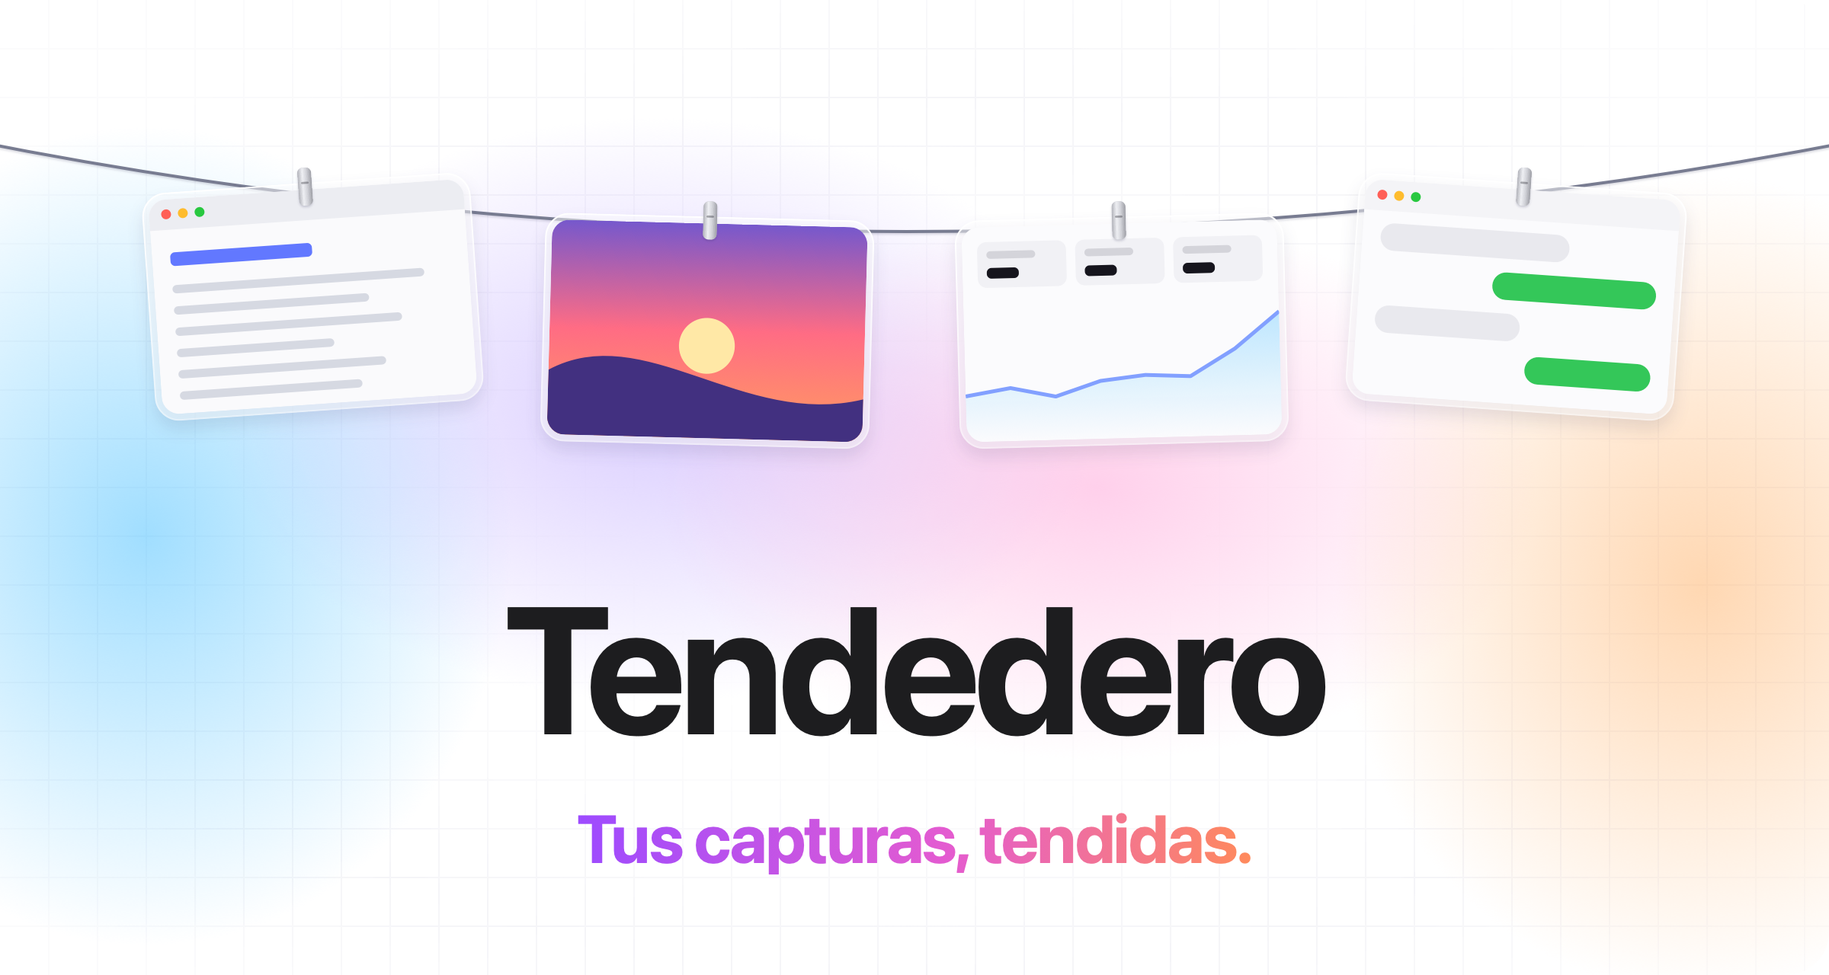
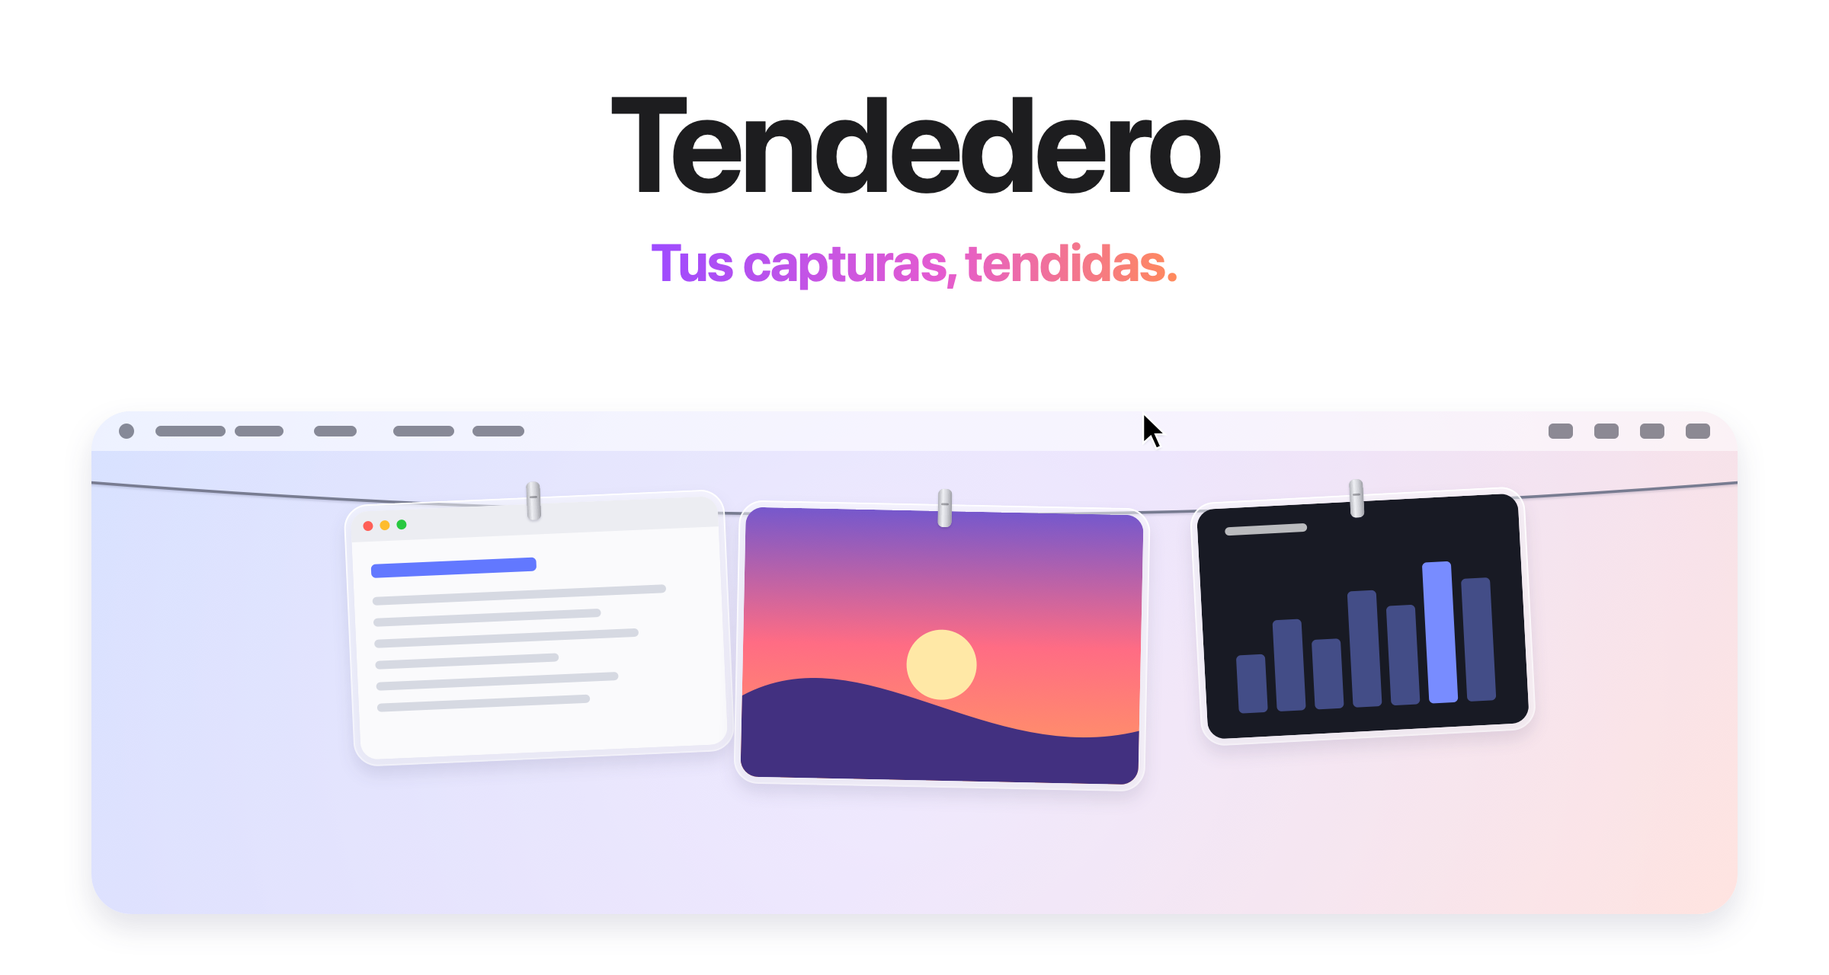
README heroes: the earlier scene again, with the website's words: a bold name and the tagline in the title's gradient

diff --git a/scripts/make-readme-art.swift b/scripts/make-readme-art.swift
@@ -168,6 +168,7 @@ struct Theme {
     let shadow: NSColor
     let tile: NSColor
     let tileInk: NSColor
+    let tagline: [NSColor]     // the website's title gradient
 }
 
 let light = Theme(
@@ -179,7 +180,8 @@ let light = Theme(
     line: color(120, 124, 145), glassFill: color(255, 255, 255, 0.5),
     edgeTop: color(255, 255, 255, 0.95), edgeBottom: color(255, 255, 255, 0.35),
     shadow: color(40, 40, 80, 0.22),
-    tile: color(245, 245, 247), tileInk: color(29, 29, 31))
+    tile: color(245, 245, 247), tileInk: color(29, 29, 31),
+    tagline: [color(157, 75, 255), color(228, 91, 208), color(255, 138, 91)])
 
 let dark = Theme(
     name: "dark",
@@ -190,7 +192,8 @@ let dark = Theme(
     line: color(150, 154, 175), glassFill: color(255, 255, 255, 0.12),
     edgeTop: color(255, 255, 255, 0.45), edgeBottom: color(255, 255, 255, 0.08),
     shadow: color(0, 0, 0, 0.5),
-    tile: color(28, 28, 30), tileInk: color(245, 245, 247))
+    tile: color(28, 28, 30), tileInk: color(245, 245, 247),
+    tagline: [color(181, 123, 255), color(240, 112, 216), color(255, 160, 112)])
 
 // MARK: Canvas
 
@@ -237,6 +240,26 @@ func leftText(_ string: String, size: CGFloat, weight: NSFont.Weight, color: NSC
     let s = NSAttributedString(string: string, attributes: [.font: font, .foregroundColor: color, .kern: tracking])
     if s.size().width > maxWidth { fatalError("\"\(string)\" is too long: \(Int(s.size().width)) of \(Int(maxWidth)) points") }
     s.draw(at: NSPoint(x: x, y: baselineY + font.descender))
+}
+
+/// Text filled with a horizontal gradient, through a mask of the glyphs.
+func gradientText(_ string: String, size: CGFloat, weight: NSFont.Weight, colors: [NSColor], tracking: CGFloat,
+                  centerX: CGFloat, baselineY: CGFloat, canvas: NSSize, scale: CGFloat, ctx: CGContext) {
+    let font = NSFont.systemFont(ofSize: size, weight: weight)
+    let s = NSAttributedString(string: string, attributes: [.font: font, .foregroundColor: NSColor.white, .kern: tracking])
+    let w = s.size().width
+    let mask = CGContext(data: nil, width: Int(canvas.width * scale), height: Int(canvas.height * scale), bitsPerComponent: 8,
+                         bytesPerRow: 0, space: CGColorSpaceCreateDeviceGray(), bitmapInfo: CGImageAlphaInfo.none.rawValue)!
+    mask.scaleBy(x: scale, y: scale)
+    NSGraphicsContext.saveGraphicsState()
+    NSGraphicsContext.current = NSGraphicsContext(cgContext: mask, flipped: false)
+    s.draw(at: NSPoint(x: centerX - w / 2, y: baselineY + font.descender))
+    NSGraphicsContext.restoreGraphicsState()
+    ctx.saveGState()
+    ctx.clip(to: NSRect(origin: .zero, size: canvas), mask: mask.makeImage()!)
+    NSGradient(colors: colors, atLocations: [0, 0.55, 1], colorSpace: .sRGB)!
+        .draw(in: NSRect(x: centerX - w / 2, y: baselineY - size * 0.4, width: w, height: size * 1.4), angle: 0)
+    ctx.restoreGState()
 }
 
 func textWidth(_ string: String, size: CGFloat, weight: NSFont.Weight) -> CGFloat {
@@ -356,16 +379,16 @@ func drawGlassPhoto(_ ctx: CGContext, _ t: Theme, w: CGFloat, h: CGFloat, kind: 
 func drawContent(_ kind: Int, _ r: NSRect) {
     switch kind {
     case 0:
-        (darkWindows ? color(38, 37, 44) : color(250, 250, 252)).setFill(); r.fill()
+        color(250, 250, 252).setFill(); r.fill()
         let bar = NSRect(x: r.minX, y: r.maxY - 20, width: r.width, height: 20)
-        (darkWindows ? color(45, 44, 52) : color(236, 237, 242)).setFill(); bar.fill()
+        color(236, 237, 242).setFill(); bar.fill()
         for (i, c) in [color(255, 95, 87), color(254, 188, 46), color(40, 200, 64)].enumerated() {
             c.setFill()
             NSBezierPath(ovalIn: NSRect(x: r.minX + 8 + CGFloat(i) * 11, y: bar.midY - 3, width: 6.5, height: 6.5)).fill()
         }
         color(98, 120, 255).setFill()
         NSBezierPath(roundedRect: NSRect(x: r.minX + 12, y: bar.minY - 24, width: r.width * 0.45, height: 9), xRadius: 3, yRadius: 3).fill()
-        (darkWindows ? color(255, 255, 255, 0.14) : color(214, 217, 226)).setFill()
+        color(214, 217, 226).setFill()
         for i in 0..<6 {
             let y = bar.minY - 42 - CGFloat(i) * 14
             if y < r.minY + 8 { break }
@@ -384,45 +407,6 @@ func drawContent(_ kind: Int, _ r: NSRect) {
                     controlPoint2: NSPoint(x: r.minX + r.width * 0.62, y: r.minY + r.height * 0.05))
         hills.line(to: NSPoint(x: r.maxX, y: r.minY)); hills.line(to: NSPoint(x: r.minX, y: r.minY)); hills.close()
         color(66, 48, 128).setFill(); hills.fill()
-    case 3:
-        // A week of screenshots: three figures and a line that climbs.
-        (darkWindows ? color(38, 37, 44) : color(251, 251, 253)).setFill(); r.fill()
-        let tw = (r.width - 32) / 3
-        for i in 0..<3 {
-            let tile = NSRect(x: r.minX + 10 + CGFloat(i) * (tw + 6), y: r.maxY - 40, width: tw, height: 30)
-            (darkWindows ? color(48, 47, 56) : color(241, 241, 245)).setFill()
-            NSBezierPath(roundedRect: tile, xRadius: 6, yRadius: 6).fill()
-            (darkWindows ? color(255, 255, 255, 0.25) : color(212, 212, 218)).setFill()
-            NSBezierPath(roundedRect: NSRect(x: tile.minX + 6, y: tile.maxY - 11, width: tw * 0.55, height: 5), xRadius: 2.5, yRadius: 2.5).fill()
-            (darkWindows ? color(245, 245, 247) : color(22, 21, 29)).setFill()
-            NSBezierPath(roundedRect: NSRect(x: tile.minX + 6, y: tile.minY + 6, width: tw * 0.36, height: 7), xRadius: 3, yRadius: 3).fill()
-        }
-        let pts: [CGFloat] = [0.28, 0.34, 0.26, 0.38, 0.42, 0.4, 0.62, 0.92]
-        let curve = NSBezierPath()
-        for (i, v) in pts.enumerated() {
-            let p = NSPoint(x: r.minX + r.width * CGFloat(i) / CGFloat(pts.count - 1), y: r.minY + 8 + (r.height - 62) * v)
-            i == 0 ? curve.move(to: p) : curve.line(to: p)
-        }
-        let area = curve.copy() as! NSBezierPath
-        area.line(to: NSPoint(x: r.maxX, y: r.minY)); area.line(to: NSPoint(x: r.minX, y: r.minY)); area.close()
-        NSGradient(colors: [color(92, 198, 255, 0.38), color(169, 139, 255, 0)])!.draw(in: area, angle: -90)
-        curve.lineWidth = 2.5; curve.lineJoinStyle = .round
-        color(130, 160, 255).setStroke(); curve.stroke()
-    case 4:
-        // A chat: bubbles in and out.
-        (darkWindows ? color(38, 37, 44) : color(251, 251, 253)).setFill(); r.fill()
-        let bar = NSRect(x: r.minX, y: r.maxY - 20, width: r.width, height: 20)
-        (darkWindows ? color(45, 44, 52) : color(244, 244, 247)).setFill(); bar.fill()
-        for (i, c) in [color(255, 95, 87), color(254, 188, 46), color(40, 200, 64)].enumerated() {
-            c.setFill()
-            NSBezierPath(ovalIn: NSRect(x: r.minX + 8 + CGFloat(i) * 11, y: bar.midY - 3, width: 6.5, height: 6.5)).fill()
-        }
-        for (i, (w, out)) in [(0.6, false), (0.52, true), (0.46, false), (0.4, true)].enumerated() {
-            let bw = r.width * w, y = bar.minY - 26 - CGFloat(i) * 27
-            let b = NSRect(x: out ? r.maxX - 12 - bw : r.minX + 12, y: y, width: bw, height: 18)
-            (out ? color(52, 199, 89) : (darkWindows ? color(58, 57, 66) : color(233, 233, 238))).setFill()
-            NSBezierPath(roundedRect: b, xRadius: 9, yRadius: 9).fill()
-        }
     default:
         color(24, 26, 36).setFill(); r.fill()
         let bars: [CGFloat] = [0.35, 0.55, 0.42, 0.7, 0.6, 0.85, 0.74]
@@ -470,110 +454,27 @@ func drawCursor(_ ctx: CGContext, _ t: Theme, at p: NSPoint) {
 
 // MARK: Hero
 
-// The hero wears the website's colours: a desk lit by soft glows over a faint
-// grid, four photos on a line, and the tagline in the title's gradient.
-struct Glow { let x: CGFloat; let y: CGFloat; let rx: CGFloat; let ry: CGFloat; let color: NSColor; let alpha: CGFloat }
-struct Look { let wall: NSColor; let grid: NSColor; let glows: [Glow]; let title: [NSColor] }
-
-let looks: [String: Look] = [
-    "light": Look(wall: color(255, 255, 255), grid: color(90, 90, 140, 0.06), glows: [
-        Glow(x: 0.08, y: 0.55, rx: 0.2, ry: 0.42, color: color(92, 198, 255), alpha: 0.58),
-        Glow(x: 0.36, y: 0.42, rx: 0.24, ry: 0.3, color: color(169, 139, 255), alpha: 0.42),
-        Glow(x: 0.6, y: 0.5, rx: 0.24, ry: 0.28, color: color(255, 143, 208), alpha: 0.42),
-        Glow(x: 0.93, y: 0.6, rx: 0.2, ry: 0.42, color: color(255, 179, 107), alpha: 0.52),
-    ], title: [color(157, 75, 255), color(228, 91, 208), color(255, 138, 91)]),
-    "dark": Look(wall: color(11, 11, 16), grid: color(255, 255, 255, 0.035), glows: [
-        Glow(x: 0.08, y: 0.55, rx: 0.2, ry: 0.42, color: color(47, 143, 216), alpha: 0.4),
-        Glow(x: 0.36, y: 0.42, rx: 0.24, ry: 0.3, color: color(122, 82, 224), alpha: 0.34),
-        Glow(x: 0.6, y: 0.5, rx: 0.24, ry: 0.28, color: color(209, 79, 159), alpha: 0.3),
-        Glow(x: 0.93, y: 0.6, rx: 0.2, ry: 0.42, color: color(217, 128, 58), alpha: 0.32),
-    ], title: [color(181, 123, 255), color(240, 112, 216), color(255, 160, 112)]),
-]
-
-/// Windows in the hero follow the theme; the demo keeps its light ones.
-var darkWindows = false
-
-/// Text filled with a horizontal gradient, through a mask of the glyphs.
-func gradientText(_ string: String, size: CGFloat, weight: NSFont.Weight, colors: [NSColor], tracking: CGFloat,
-                  centerX: CGFloat, baselineY: CGFloat, canvas: NSSize, scale: CGFloat, ctx: CGContext) {
-    let font = NSFont.systemFont(ofSize: size, weight: weight)
-    let s = NSAttributedString(string: string, attributes: [.font: font, .foregroundColor: NSColor.white, .kern: tracking])
-    let w = s.size().width
-    let mask = CGContext(data: nil, width: Int(canvas.width * scale), height: Int(canvas.height * scale), bitsPerComponent: 8,
-                         bytesPerRow: 0, space: CGColorSpaceCreateDeviceGray(), bitmapInfo: CGImageAlphaInfo.none.rawValue)!
-    mask.scaleBy(x: scale, y: scale)
-    NSGraphicsContext.saveGraphicsState()
-    NSGraphicsContext.current = NSGraphicsContext(cgContext: mask, flipped: false)
-    s.draw(at: NSPoint(x: centerX - w / 2, y: baselineY + font.descender))
-    NSGraphicsContext.restoreGraphicsState()
-    ctx.saveGState()
-    ctx.clip(to: NSRect(origin: .zero, size: canvas), mask: mask.makeImage()!)
-    NSGradient(colors: colors, atLocations: [0, 0.55, 1], colorSpace: .sRGB)!
-        .draw(in: NSRect(x: centerX - w / 2, y: baselineY - size * 0.4, width: w, height: size * 1.4), angle: 0)
-    ctx.restoreGState()
-}
-
 func hero(_ t: Theme) {
     let W: CGFloat = 1200, H: CGFloat = 640, s: CGFloat = 2
-    let look = looks[t.name]!
     let rep = makeBitmap(W, H, scale: s)
     draw(rep, scale: s) { ctx in
-        let canvas = NSRect(x: 0, y: 0, width: W, height: H)
-        t.page.setFill(); canvas.fill()
-        NSBezierPath(roundedRect: canvas, xRadius: 28, yRadius: 28).addClip()
-        look.wall.setFill(); canvas.fill()
-
-        // The grid fades out behind the words, as on the website.
-        ctx.beginTransparencyLayer(auxiliaryInfo: nil)
-        look.grid.setStroke()
-        let cell: CGFloat = 32
-        let grid = NSBezierPath(); grid.lineWidth = 1
-        for x in stride(from: cell, to: W, by: cell) { grid.move(to: NSPoint(x: x, y: 0)); grid.line(to: NSPoint(x: x, y: H)) }
-        for y in stride(from: H - cell, to: 0, by: -cell) { grid.move(to: NSPoint(x: 0, y: y)); grid.line(to: NSPoint(x: W, y: y)) }
-        grid.stroke()
-        ctx.setBlendMode(.destinationOut)
-        ctx.saveGState()
-        ctx.translateBy(x: W / 2, y: H * 0.45); ctx.scaleBy(x: W * 0.6, y: H * 0.6)
-        NSGradient(colors: [.black, .black, .clear, color(0, 0, 0, 0.6)], atLocations: [0, 0.25, 0.75, 1], colorSpace: .sRGB)!
-            .draw(fromCenter: .zero, radius: 0, toCenter: .zero, radius: 1, options: [.drawsAfterEndingLocation])
-        ctx.restoreGState()
-        ctx.endTransparencyLayer()
-
-        for g in look.glows {
-            ctx.saveGState()
-            ctx.translateBy(x: W * g.x, y: H * (1 - g.y)); ctx.scaleBy(x: max(W * g.rx, 220), y: H * g.ry)
-            NSGradient(colors: [g.color.withAlphaComponent(g.alpha), g.color.withAlphaComponent(g.alpha * 0.45), g.color.withAlphaComponent(0)],
-                       atLocations: [0, 0.55, 1], colorSpace: .sRGB)!
-                .draw(fromCenter: .zero, radius: 0, toCenter: .zero, radius: 1, options: [])
-            ctx.restoreGState()
-        }
-
-        let top = H - 92, sag: CGFloat = 60
-        func lineY(_ x: CGFloat) -> CGFloat { let f = (x + 20) / (W + 40); return top - 4 * sag * f * (1 - f) }
-        let line = NSBezierPath()
-        line.move(to: NSPoint(x: -20, y: top))
-        line.curve(to: NSPoint(x: W + 20, y: top), controlPoint1: NSPoint(x: (W / 2 - 20) * 2 / 3 - 20 / 3, y: top - 2 * sag * 2 / 3),
-                   controlPoint2: NSPoint(x: W + 20 - (W / 2 + 20) * 2 / 3, y: top - 2 * sag * 2 / 3))
-        ctx.saveGState(); shadow(t, 0.8, blur: 3, y: -2)
-        line.lineWidth = 2; t.line.setStroke(); line.stroke()
-        ctx.restoreGState()
-
-        darkWindows = t.name == "dark"
-        for f in [Frame(x: 200, w: 216, h: 150, tilt: 4, kind: 0), Frame(x: 466, w: 216, h: 150, tilt: -1.5, kind: 1),
-                  Frame(x: 734, w: 216, h: 150, tilt: 1.5, kind: 3), Frame(x: 1000, w: 216, h: 150, tilt: -4, kind: 4)] {
-            ctx.saveGState()
-            ctx.translateBy(x: f.x, y: lineY(f.x) + 7)
-            ctx.rotate(by: f.tilt * .pi / 180)
-            drawGlassPhoto(ctx, t, w: f.w, h: f.h, kind: f.kind, lift: false)
-            ctx.restoreGState()
-        }
-        darkWindows = false
-
-        text("Tendedero", size: 118, weight: .bold, color: t.ink, tracking: -3.6, centerX: W / 2, baselineY: 158)
+        t.page.setFill(); NSRect(x: 0, y: 0, width: W, height: H).fill()
+        // The words in the website's style: a bold name, the tagline in its gradient.
+        text("Tendedero", size: 88, weight: .bold, color: t.ink, tracking: -2.8, centerX: W / 2, baselineY: H - 126)
         let tagline = T("Screenshots, hung out to dry.")
-        let size = min(44, 44 * 1080 / textWidth(tagline, size: 44, weight: .bold))
-        gradientText(tagline, size: size, weight: .bold, colors: look.title, tracking: -1.1,
-                     centerX: W / 2, baselineY: 74, canvas: canvas.size, scale: s, ctx: ctx)
+        let size = min(34, 34 * 1000 / textWidth(tagline, size: 34, weight: .bold))
+        gradientText(tagline, size: size, weight: .bold, colors: t.tagline, tracking: -0.8,
+                     centerX: W / 2, baselineY: H - 184, canvas: NSSize(width: W, height: H), scale: s, ctx: ctx)
+        let frames = [Frame(x: 290, w: 250, h: 172, tilt: 2.5, kind: 0),
+                      Frame(x: 560, w: 270, h: 186, tilt: -1.2, kind: 1),
+                      Frame(x: 830, w: 220, h: 160, tilt: 3, kind: 2)]
+        let scene = NSRect(x: 60, y: 40, width: W - 120, height: 330)
+        ctx.saveGState(); shadow(t, 0.6, blur: 40, y: -18)
+        t.page.setFill(); NSBezierPath(roundedRect: scene, xRadius: 26, yRadius: 26).fill()
+        ctx.restoreGState()
+        drawScene(ctx, t, rect: scene,
+                  frames: frames.map { Frame(x: $0.x - 60 + 60, w: $0.w, h: $0.h, tilt: $0.tilt, kind: $0.kind) },
+                  state: SceneState(cursor: NSPoint(x: 690, y: 330)), cornerRadius: 26)
     }
     savePNG(rep, "\(outDir)/hero-\(t.name).png")
 }

diff --git a/docs/i18n/README.hi.md b/docs/i18n/README.hi.md
@@ -1,6 +1,6 @@
 <picture>
   <source media="(prefers-color-scheme: dark)" srcset="../images/hi/hero-dark.png">
-  <img src="../images/hi/hero-light.png" alt="Tendedero. स्क्रीनशॉट, रस्सी पर सूखते हुए। एक पतली रस्सी से काँच के फ़्रेम में चार स्क्रीनशॉट टँगे हैं।">
+  <img src="../images/hi/hero-light.png" alt="Tendedero. स्क्रीनशॉट, रस्सी पर सूखते हुए। macOS मेनू बार के नीचे एक पतली रस्सी से काँच के फ़्रेम में तीन स्क्रीनशॉट टँगे हैं।">
 </picture>
 
 <h3 align="center"><a href="https://tendedero.app">tendedero.app पर अपने ब्राउज़र में आज़माएँ&nbsp;&rsaquo;</a></h3>

diff --git a/docs/i18n/README.ja.md b/docs/i18n/README.ja.md
@@ -1,6 +1,6 @@
 <picture>
   <source media="(prefers-color-scheme: dark)" srcset="../images/ja/hero-dark.png">
-  <img src="../images/ja/hero-light.png" alt="Tendedero。スクリーンショットを、物干しに。ガラスのフレームに入った4枚のスクリーンショットが、細いロープに吊るされている。">
+  <img src="../images/ja/hero-light.png" alt="Tendedero。スクリーンショットを、物干しに。ガラスのフレームに入った3枚のスクリーンショットが、macOSのメニューバーの下の細いロープに吊るされている。">
 </picture>
 
 <h3 align="center"><a href="https://tendedero.app/?lang=ja">tendedero.appでブラウザから試す&nbsp;&rsaquo;</a></h3>

diff --git a/docs/i18n/README.ko.md b/docs/i18n/README.ko.md
@@ -1,6 +1,6 @@
 <picture>
   <source media="(prefers-color-scheme: dark)" srcset="../images/ko/hero-dark.png">
-  <img src="../images/ko/hero-light.png" alt="Tendedero. 빨랫줄에 널어 둔 스크린샷. 유리 액자에 담긴 스크린샷 네 장이 가는 줄에 걸려 있어요.">
+  <img src="../images/ko/hero-light.png" alt="Tendedero. 빨랫줄에 널어 둔 스크린샷. 유리 액자에 담긴 스크린샷 세 장이 macOS 메뉴 막대 아래의 가는 줄에 걸려 있어요.">
 </picture>
 
 <h3 align="center"><a href="https://tendedero.app/?lang=ko">tendedero.app에서 브라우저로 바로 사용해 보세요&nbsp;&rsaquo;</a></h3>

diff --git a/docs/i18n/README.fr.md b/docs/i18n/README.fr.md
@@ -1,6 +1,6 @@
 <picture>
   <source media="(prefers-color-scheme: dark)" srcset="../images/fr/hero-dark.png">
-  <img src="../images/fr/hero-light.png" alt="Tendedero. Vos captures, mises à sécher. Quatre captures dans des cadres en verre pendent à une fine corde.">
+  <img src="../images/fr/hero-light.png" alt="Tendedero. Vos captures, mises à sécher. Trois captures dans des cadres en verre pendent à une fine corde sous la barre des menus de macOS.">
 </picture>
 
 <h3 align="center"><a href="https://tendedero.app/?lang=fr">Essayez-le dans votre navigateur sur tendedero.app&nbsp;&rsaquo;</a></h3>

diff --git a/docs/i18n/README.tr.md b/docs/i18n/README.tr.md
@@ -1,6 +1,6 @@
 <picture>
   <source media="(prefers-color-scheme: dark)" srcset="../images/tr/hero-dark.png">
-  <img src="../images/tr/hero-light.png" alt="Tendedero. Ekran görüntüleri, ipin üzerinde. İnce bir ipten sallanan cam çerçeveli dört ekran görüntüsü.">
+  <img src="../images/tr/hero-light.png" alt="Tendedero. Ekran görüntüleri, ipin üzerinde. macOS menü çubuğunun altında ince bir ipten sallanan cam çerçeveli üç ekran görüntüsü.">
 </picture>
 
 <h3 align="center"><a href="https://tendedero.app">tendedero.app adresinde tarayıcıdan deneyin&nbsp;&rsaquo;</a></h3>

diff --git a/docs/i18n/README.az.md b/docs/i18n/README.az.md
@@ -1,6 +1,6 @@
 <picture>
   <source media="(prefers-color-scheme: dark)" srcset="../images/az/hero-dark.png">
-  <img src="../images/az/hero-light.png" alt="Tendedero. Ekran şəkilləri, ipə sərilib. Şüşə çərçivədə dörd ekran şəkli nazik ipdən asılıb.">
+  <img src="../images/az/hero-light.png" alt="Tendedero. Ekran şəkilləri, ipə sərilib. Şüşə çərçivədə üç ekran şəkli macOS menyu panelinin altındakı nazik ipdən asılıb.">
 </picture>
 
 <h3 align="center"><a href="https://tendedero.app">Brauzerinizdə tendedero.app saytında sınayın&nbsp;&rsaquo;</a></h3>

diff --git a/docs/i18n/README.pt-BR.md b/docs/i18n/README.pt-BR.md
@@ -1,6 +1,6 @@
 <picture>
   <source media="(prefers-color-scheme: dark)" srcset="../images/pt-BR/hero-dark.png">
-  <img src="../images/pt-BR/hero-light.png" alt="Tendedero. Suas capturas, secando no varal. Quatro capturas em molduras de vidro penduradas num varal fino.">
+  <img src="../images/pt-BR/hero-light.png" alt="Tendedero. Suas capturas, secando no varal. Três capturas em molduras de vidro penduradas num varal fino sob a barra de menus do macOS.">
 </picture>
 
 <h3 align="center"><a href="https://tendedero.app/?lang=pt-BR">Experimente no navegador em tendedero.app&nbsp;&rsaquo;</a></h3>

diff --git a/docs/i18n/README.zh-Hans.md b/docs/i18n/README.zh-Hans.md
@@ -1,6 +1,6 @@
 <picture>
   <source media="(prefers-color-scheme: dark)" srcset="../images/zh-Hans/hero-dark.png">
-  <img src="../images/zh-Hans/hero-light.png" alt="Tendedero。截图挂起来晾着。四张截图装在玻璃相框里，挂在一根细绳上。">
+  <img src="../images/zh-Hans/hero-light.png" alt="Tendedero。截图挂起来晾着。三张截图装在玻璃相框里，挂在 macOS 菜单栏下方的一根细绳上。">
 </picture>
 
 <h3 align="center"><a href="https://tendedero.app/?lang=zh-Hans">在 tendedero.app 上直接用浏览器试用&nbsp;&rsaquo;</a></h3>

diff --git a/docs/i18n/README.gl.md b/docs/i18n/README.gl.md
@@ -1,6 +1,6 @@
 <picture>
   <source media="(prefers-color-scheme: dark)" srcset="../images/gl/hero-dark.png">
-  <img src="../images/gl/hero-light.png" alt="Tendedero. As túas capturas, tendidas. Catro capturas en marcos de cristal penduran dunha corda fina.">
+  <img src="../images/gl/hero-light.png" alt="Tendedero. As túas capturas, tendidas. Tres capturas en marcos de cristal penduran dunha corda fina baixo a barra de menús de macOS.">
 </picture>
 
 <h3 align="center"><a href="https://tendedero.app/?lang=gl">Próbaa dende o navegador en tendedero.app&nbsp;&rsaquo;</a></h3>

diff --git a/docs/i18n/README.es.md b/docs/i18n/README.es.md
@@ -1,6 +1,6 @@
 <picture>
   <source media="(prefers-color-scheme: dark)" srcset="../images/es/hero-dark.png">
-  <img src="../images/es/hero-light.png" alt="Tendedero. Tus capturas, tendidas. Cuatro capturas en marcos de cristal cuelgan de una cuerda fina.">
+  <img src="../images/es/hero-light.png" alt="Tendedero. Tus capturas, tendidas. Tres capturas en marcos de cristal cuelgan de una cuerda fina bajo la barra de menús de macOS.">
 </picture>
 
 <h3 align="center"><a href="https://tendedero.app/?lang=es">Pruébala desde el navegador en tendedero.app&nbsp;&rsaquo;</a></h3>

diff --git a/README.md b/README.md
@@ -1,6 +1,6 @@
 <picture>
   <source media="(prefers-color-scheme: dark)" srcset="docs/images/hero-dark.png">
-  <img src="docs/images/hero-light.png" alt="Tendedero. Screenshots, hung out to dry. Four screenshots in glass frames hang from a thin line.">
+  <img src="docs/images/hero-light.png" alt="Tendedero. Screenshots, hung out to dry. Three screenshots in glass frames hang from a thin line under the macOS menu bar.">
 </picture>
 
 <h3 align="center"><a href="https://tendedero.app/?lang=en">Try it in your browser at tendedero.app&nbsp;&rsaquo;</a></h3>
